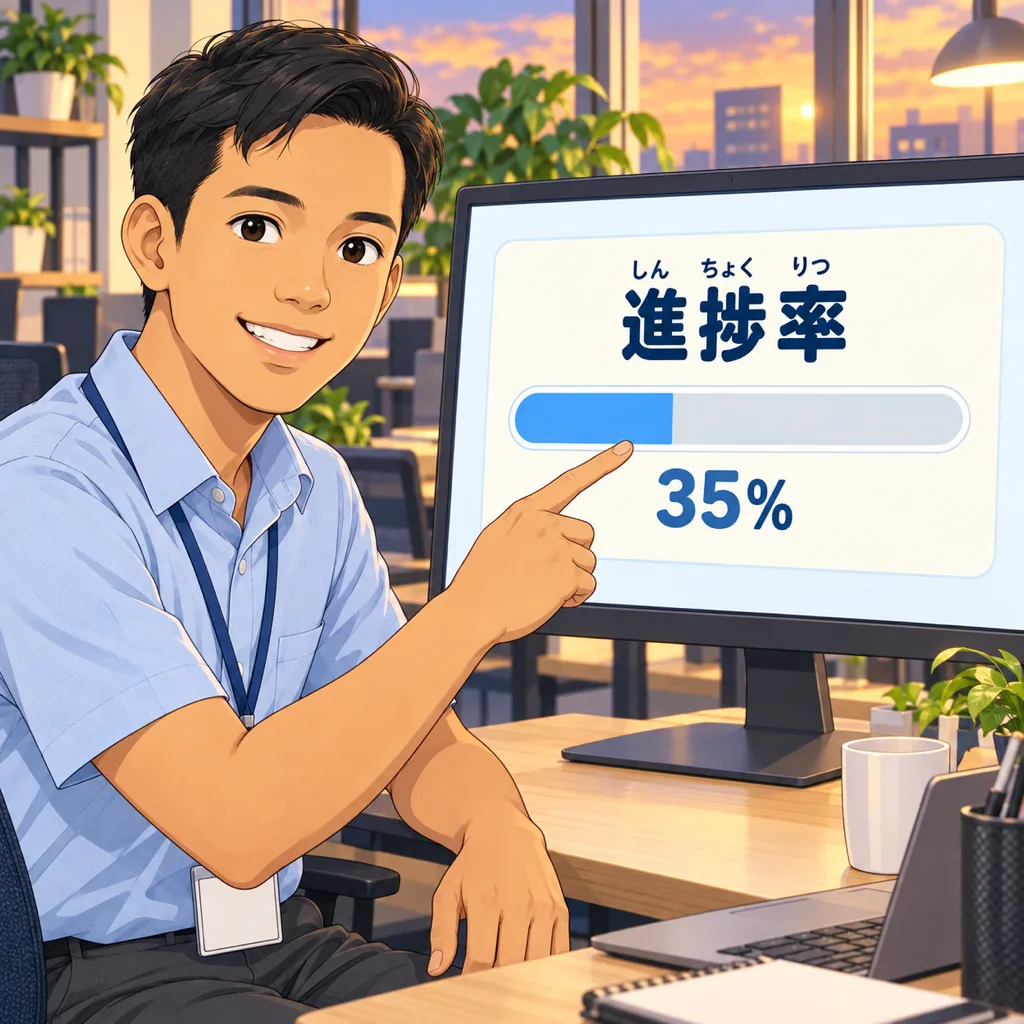
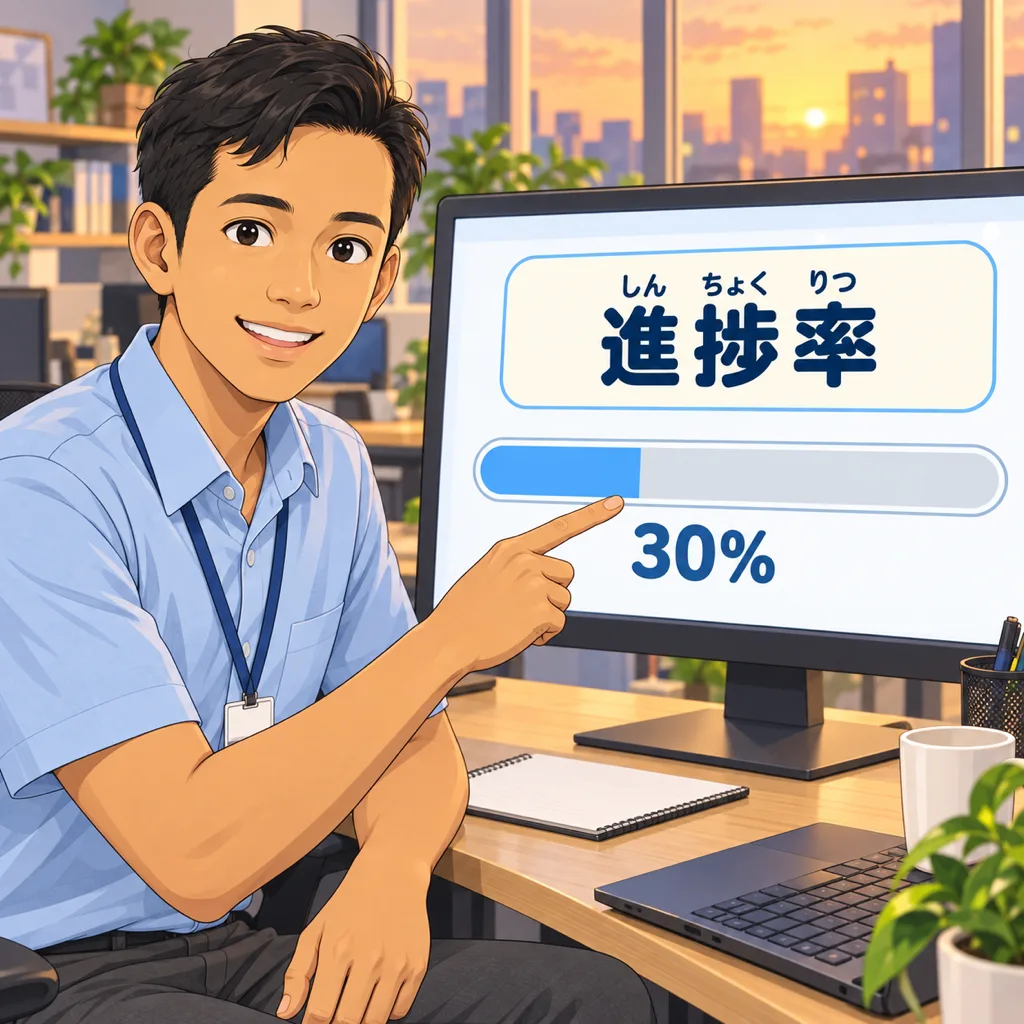
夕礼の 前ばなしの 絵を 30% で 作り直す（進捗率の 例・10%刻み）

diff --git a/src/content/asset-versions.generated.ts b/src/content/asset-versions.generated.ts
@@ -613,7 +613,7 @@ export const ASSET_VERSIONS: Readonly<Record<string, string>> = {
   "/img/articles/yuurei_nexttalent/hero.webp": "92a5df3c",
   "/img/articles/yuurei_nexttalent/memo.webp": "bc403ca9",
   "/img/articles/yuurei_nexttalent/r1_kyou.webp": "c7dd52d8",
-  "/img/articles/yuurei_nexttalent/r2_shinchoku.webp": "516c66ea",
+  "/img/articles/yuurei_nexttalent/r2_shinchoku.webp": "6665ee6a",
   "/img/articles/yuurei_nexttalent/r3_ashita.webp": "493b95f6",
   "/img/articles/yuurei_nexttalent/r4_mondai.webp": "4d370d2e",
   "/img/articles/yuurei_nexttalent/task_graph.webp": "bb7ddeb7",
